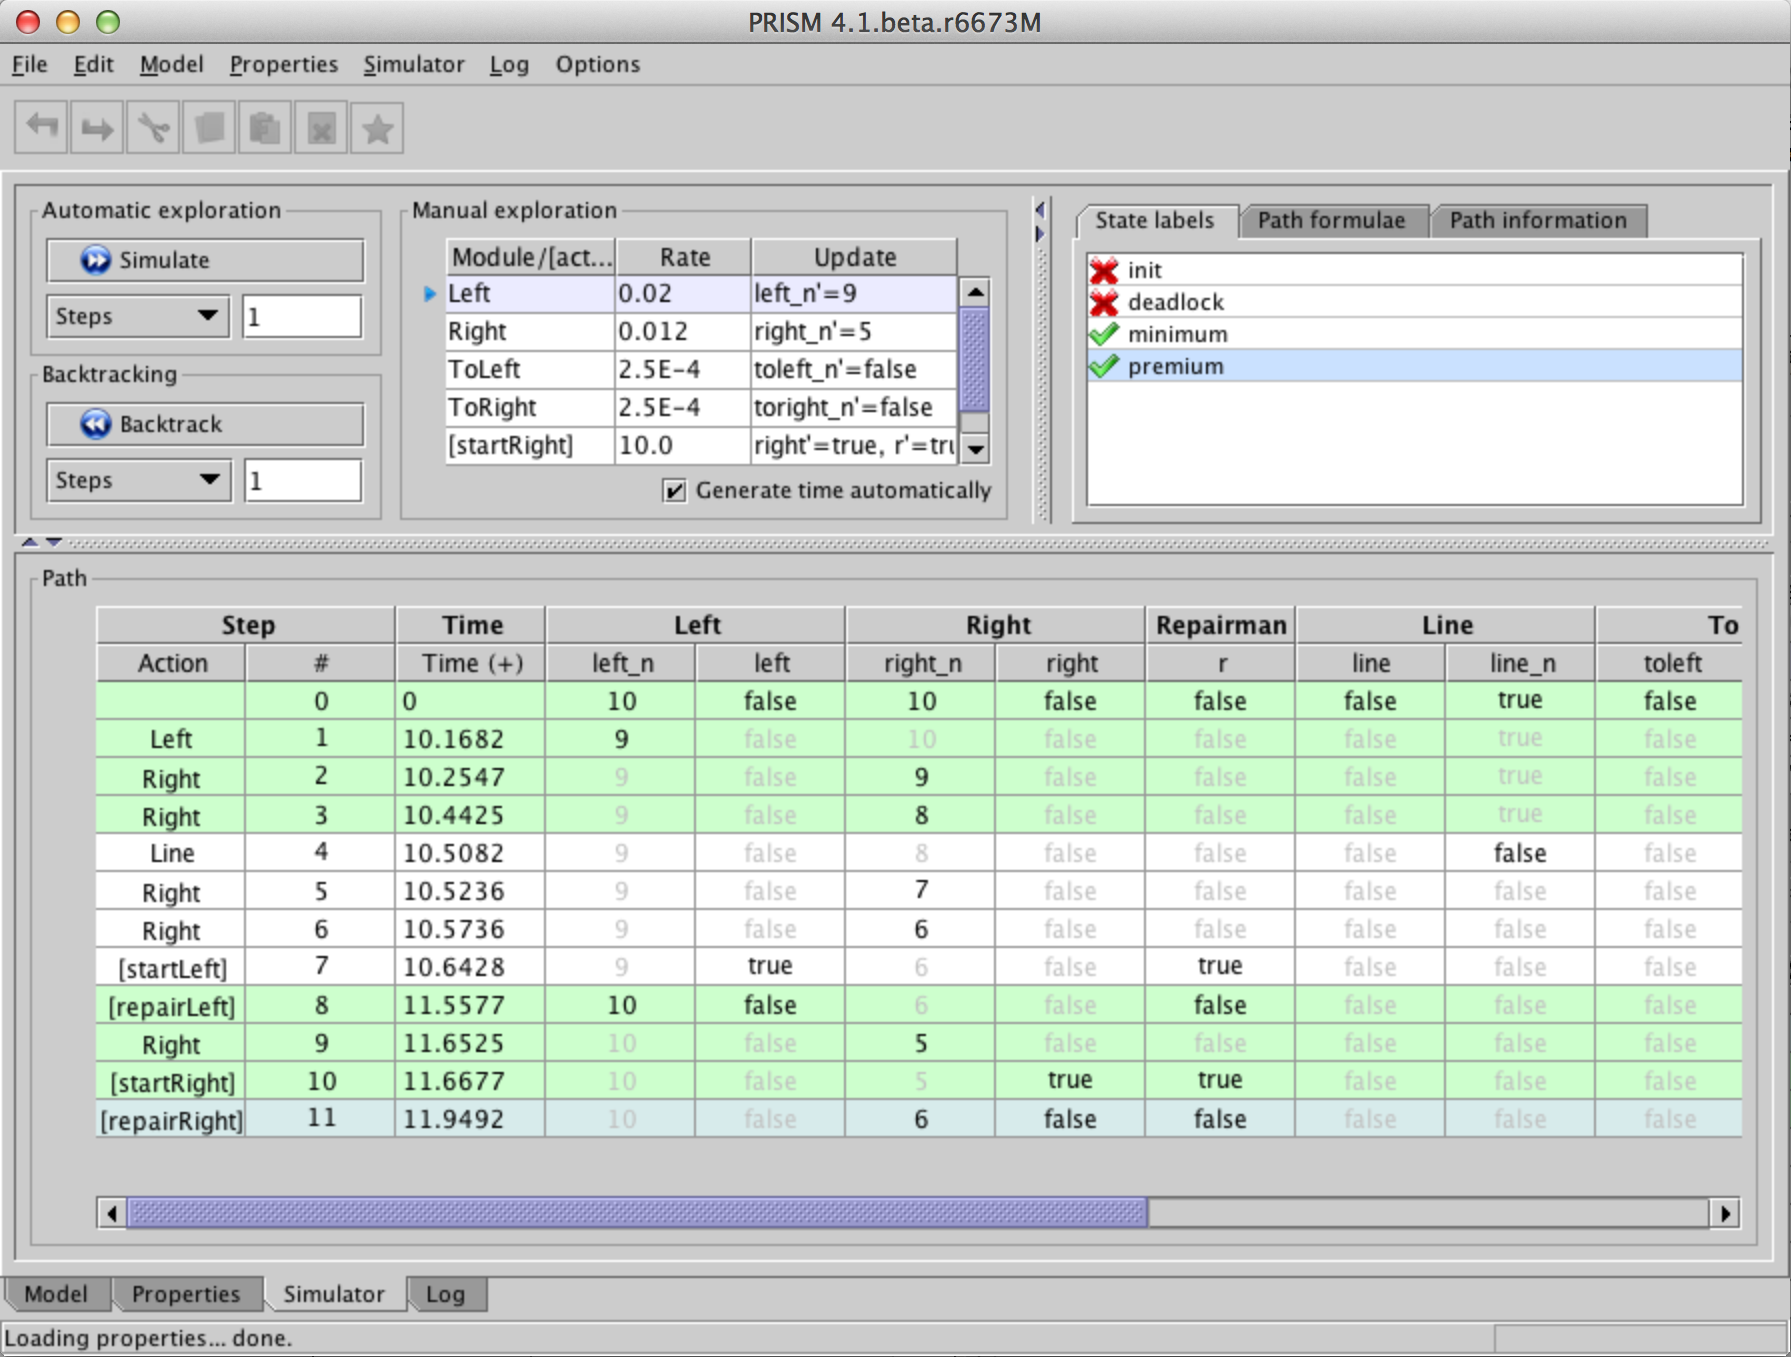
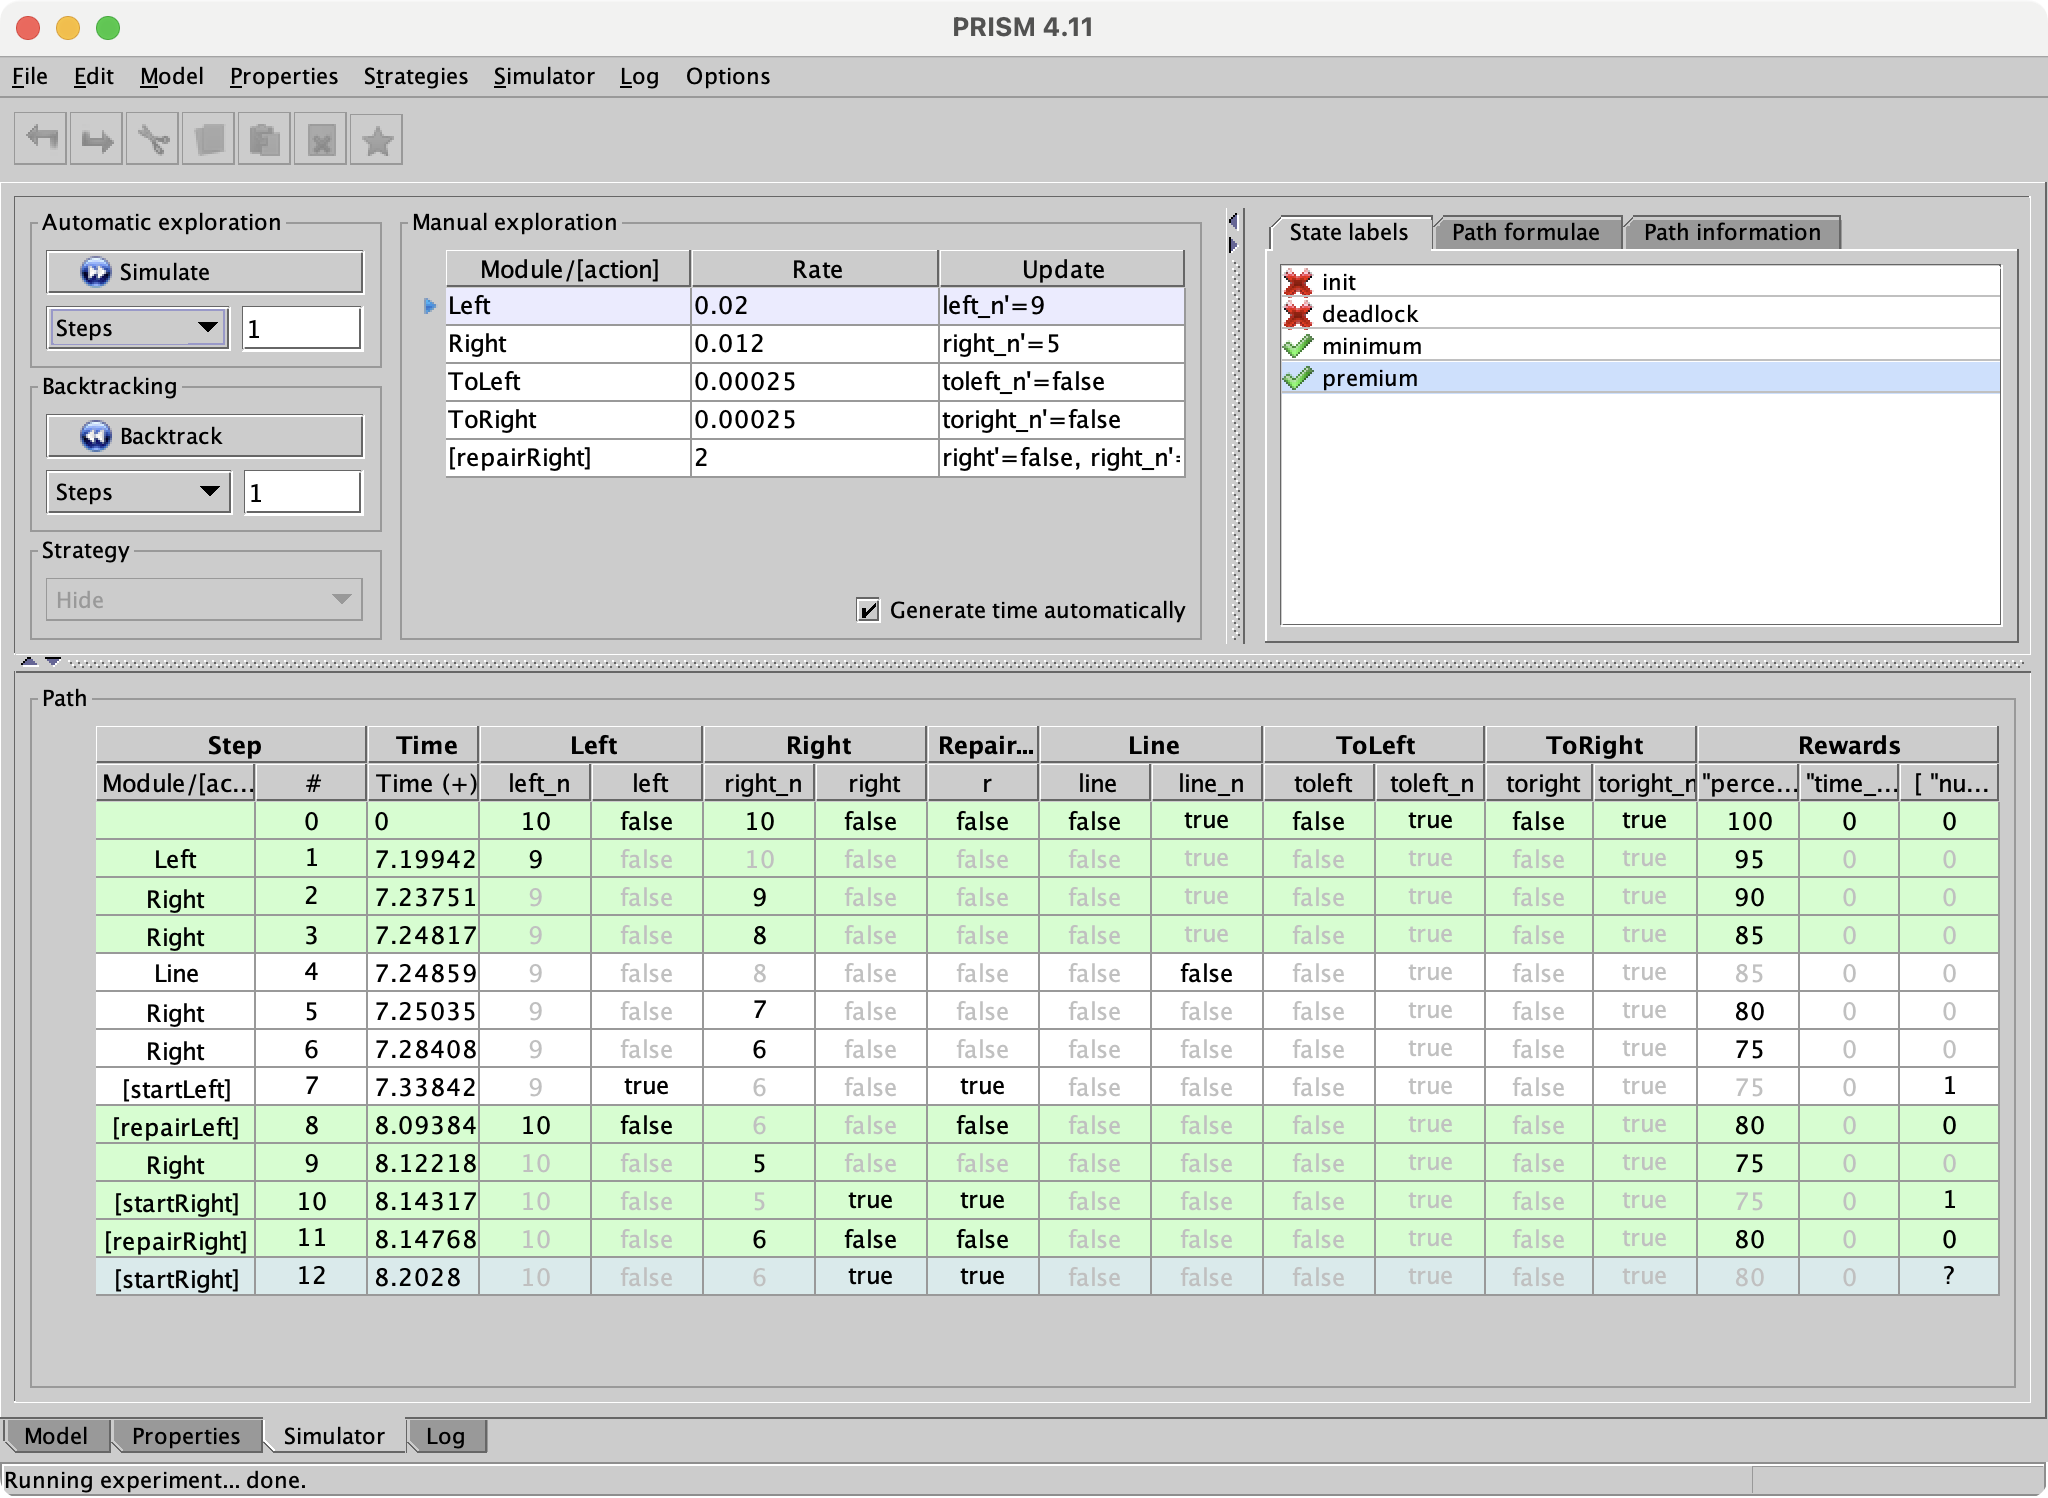
Manual: new GUI screenshots from PRISM 4.11, replacing the old GIFs.

diff --git a/doc/manual/GettingStarted/FirstSteps.md b/doc/manual/GettingStarted/FirstSteps.md
@@ -39,8 +39,8 @@ For a more introductory guide to using the tool, try the
 [tutorial](https://www.prismmodelchecker.org/tutorial/) on the PRISM web site.
 Some screenshots of the GUI version of PRISM are shown below.
 
-![Screenshot of the Model tab: a tree of the model's modules, variables and constants on the left, and an editor showing the PRISM code of a workstation cluster CTMC on the right](../files/gui1.gif)
+![Screenshot of the Model tab: the model's name and type, and the size of the built model, on the left, and an editor showing the PRISM code of a workstation cluster CTMC on the right](../files/gui1.png)
 *The PRISM GUI (editing a model)*
 
-![Screenshot of the Properties tab: a list of properties, constants and labels on the left, and on the right a table of experiments with their progress and a graph plotting probability against T for N=3, 4 and 5](../files/gui2.gif)
+![Screenshot of the Properties tab: a list of properties, constants and labels on the left, and on the right a table of experiments with their progress and a graph plotting probability against T for N=3, 4 and 5](../files/gui2.png)
 *The PRISM GUI (model checking)*

diff --git a/doc/manual/RunningPRISM/Simulation.md b/doc/manual/RunningPRISM/Simulation.md
@@ -21,7 +21,7 @@ There are also options (in the accompanying drop-down menu) to allow generation 
 
 The figure shows the simulator in action.
 
-![Screenshot of the Simulator tab: controls for automatic and manual exploration and backtracking at the top, a list of state labels on the right, and below a table of the path so far, one row per step showing the action taken, the time and the value of each variable](../files/gui-sim.png)
+![Screenshot of the Simulator tab: controls for automatic and manual exploration, backtracking and strategies at the top, a list of state labels on the right, and below a table of the path so far, one row per step showing the action taken, the time and the value of each variable](../files/gui-sim.png)
 *The PRISM GUI: exploring a model using the simulator*
 
 It is also possible to:
